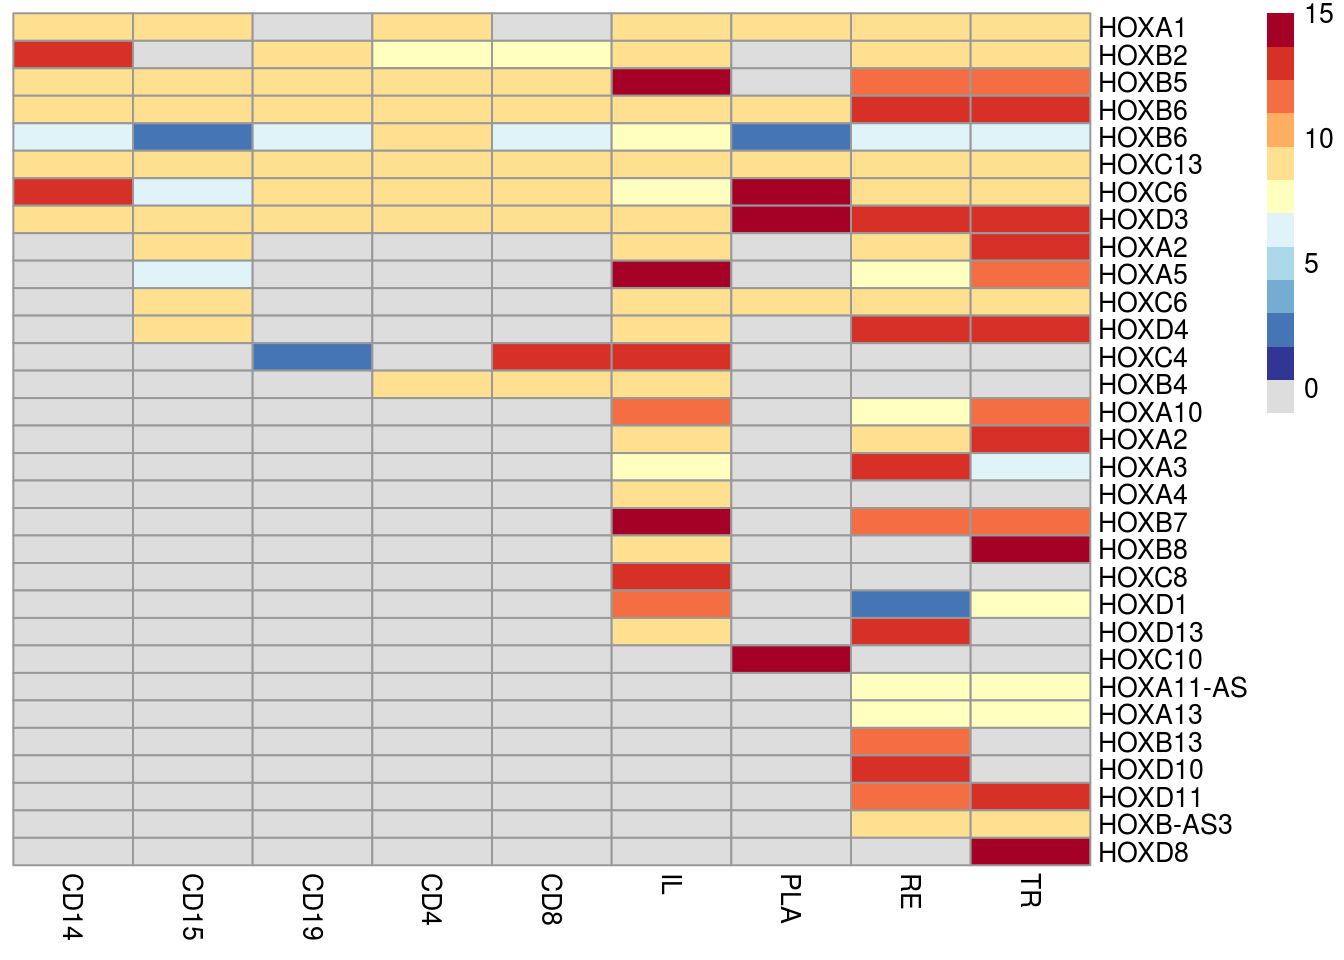
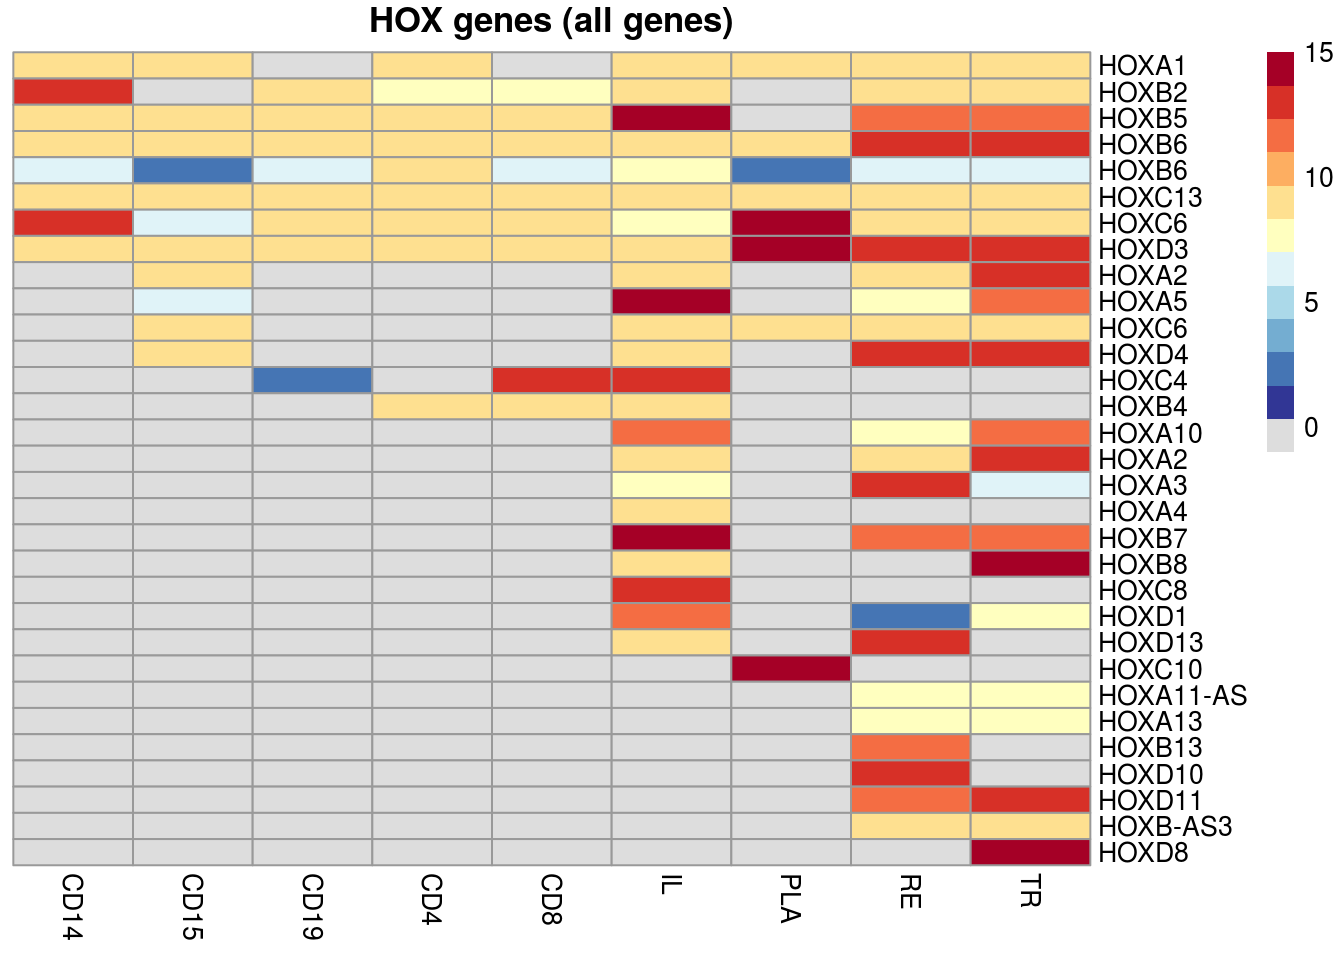
Removed granular heatmaps, added more on HOX genes.

diff --git a/post/weeks-1-3/log-weeks-1-3/index.html b/post/weeks-1-3/log-weeks-1-3/index.html
@@ -405,6 +405,7 @@ library(RColorBrewer)</code></pre>
 <div id="data-handling" class="section level2">
 <h2>Data handling</h2>
 <p>MDI uses data that has common row names across all datasets. The data from <a href="http://139.165.108.18/srv/genmol/permanent/1be6993fe41c12a051c9244d67c91da2be49e5dd26a6cd79f442bc006971e2ef/crohn-index.html">the CEDAR cohort</a> is in the form of [people <span class="math inline">\(\times\)</span> probes]. We want to transpose this; to accomplish this task we wrote <a href="https://github.com/stcolema/ra_chris_wallace/blob/master/matrix_transposer.R">an Rscript</a> that can be called form the terminal command line with appropriate arguments to transpose .csv files in a given directory. The <code>data.table</code> package by <span class="citation">Dowle and Srinivasan (2019)</span> was of great use in making this quick to run - for our 9 datasets of ~300 people and 8-16 thousand probes it took less than a minute to read, convert and write the files.</p>
+<p>The nine datasets present are six circulating immune cell types (CD4+ T lymphocytes, CD8+ T lymphocytes, CD19+ B lymphocytes, CD14+ monocytes, CD15+ granulocytes, platelets) as well as ileal, colonic, and rectal biopsies (IL, TR, RE datasets respectively).</p>
 <p>Another <a href="https://github.com/stcolema/ra_chris_wallace/blob/master/common_rownames_data.R">script was required to remove all the non-ubiquitous probe IDs</a>. Any probe not present in all datasets was removed to allow MDI to perform as MDI cannot handle missing data. This reduced the set of probes to 4,964.</p>
 <p>We performed MDI on these 9 reduced datasets with 10,000 iterations, a burn-in of 1,000 and a thinning rate of 25. MDI overfits the data, beginning with 50 clusters (as an approximation of a Dirichlet process - note that we can change the number of clusters present); as part of the sampling is reduced to around 10 occupied clusters per dataset (ranging from 8 - 13). We assumed that the median cluster allocation was the predicted cluster forgetting about the <strong>label-flipping</strong> problem of unsupervised methods.</p>
 <p>We constructed a dataframe of the median allocation per dataset for each probe. The probes are translated to the associated gene using the <a href="http://139.165.108.18/srv/genmol/permanent/1be6993fe41c12a051c9244d67c91da2be49e5dd26a6cd79f442bc006971e2ef/CEDAR_GE/Probes_good_reanno_31137_TSS.txt">key available online</a>. As some of the probes mapped to non-unique genes we use a matrix to hold our data (as this does not require unique row names in R). We read this in and visually inspect the head of the data.</p>
@@ -428,14 +429,45 @@ head(compare_df_mat)</code></pre>
 <p><strong>Note</strong>: As one inspects the following plots please recall that the labels are arbitrary and proximity of colouring has no significance (i.e. there is no reason to believe that orange in the heatplots has any association with red).</p>
 <p>Using this data we generated a heatmap of all the genes allocation across all datasets.</p>
 <p><img src="/post/weeks-1-3/2019-02-20-log-weeks-1-3_files/figure-html/mdi_1_heatmap-1.png" width="672" /></p>
-<p>Notice that we have clusters of datasets; CD4, CD8 and CD14, RE and IL and then CD15, CD19 and TR. Platelets are outside of any clusters of datasets.</p>
+<p>Notice that we have clusters of datasets; CD4, CD8 and CD14, RE and IL and then CD15, CD19 and TR. Platelets are outside of any clusters of datasets; PLA is also the thinnest dataset with only 8 thousand probes present in the full format.</p>
 <p>There are 13 clusters present here; to enable comparison we went for a wider colour palette. This is the reason for the garishness of this heatplot. A causal inspection suggests lower similarity than one might expect, particularly considering the selection of data. As we only include the genes that are sufficiently expressed in each cell type to register for measurement we would expect these to include the genes that are most similarly expressed across all tissues. We should consider the pssibility that this is an artifact of not considering label-flipping, but we investigate the clusters in finer detail first.</p>
-<div id="investigate-subsections" class="section level3">
-<h3>Investigate subsections</h3>
-<p>With the same allocation data and maintaining the ordering from the heatmap of the full dataset we inspect subsamples of the data.</p>
-<p><img src="/post/weeks-1-3/2019-02-20-log-weeks-1-3_files/figure-html/mdi_1_small_heatmaps-1.png" width="672" /><img src="/post/weeks-1-3/2019-02-20-log-weeks-1-3_files/figure-html/mdi_1_small_heatmaps-2.png" width="672" /><img src="/post/weeks-1-3/2019-02-20-log-weeks-1-3_files/figure-html/mdi_1_small_heatmaps-3.png" width="672" /><img src="/post/weeks-1-3/2019-02-20-log-weeks-1-3_files/figure-html/mdi_1_small_heatmaps-4.png" width="672" /><img src="/post/weeks-1-3/2019-02-20-log-weeks-1-3_files/figure-html/mdi_1_small_heatmaps-5.png" width="672" /></p>
-<p>With this increased granularity, we see that after the first 1,000 rows of this ordering that the similarity across tissues becomes greater. There is still large sections of dissimilarity, but the clustering more coherent than the first plot suggests. Notice also that the PLA dataset (platelets) is the greatest source of dissimilarity - this is also the thinnest dataset with only 8 thousand probes present in the full format.</p>
-</div>
+<!-- ### Investigate subsections -->
+<!-- With the same allocation data and maintaining the ordering from the heatmap of the full dataset we inspect subsamples of the data. -->
+<!-- ```{r mdi_1_small_heatmaps, echo = FALSE} -->
+<!-- row_order <- ph_full$tree_row[["order"]] -->
+<!-- df_ph_order <- compare_df_mat[row_order, ] -->
+<!-- pheatmap(df_ph_order[1:1000, ], -->
+<!--   cluster_rows = F, -->
+<!--   cluster_cols = F, -->
+<!--   color = col_pal, -->
+<!--   main = "Entries 1:1000" -->
+<!-- ) -->
+<!-- pheatmap(df_ph_order[1001:2000, ], -->
+<!--   cluster_rows = F, -->
+<!--   cluster_cols = F, -->
+<!--   color = col_pal, -->
+<!--   main = "Entries 1001:2000" -->
+<!-- ) -->
+<!-- pheatmap(df_ph_order[2001:3000, ], -->
+<!--   cluster_rows = F, -->
+<!--   cluster_cols = F, -->
+<!--   color = col_pal, -->
+<!--   main = "Entries 2001:3000" -->
+<!-- ) -->
+<!-- pheatmap(df_ph_order[3001:4000, ], -->
+<!--   cluster_rows = F, -->
+<!--   cluster_cols = F, -->
+<!--   color = col_pal, -->
+<!--   main = "Entries 3001:4000" -->
+<!-- ) -->
+<!-- pheatmap(df_ph_order[4001:4964, ], -->
+<!--   cluster_rows = F, -->
+<!--   cluster_cols = F, -->
+<!--   color = col_pal, -->
+<!--   main = "Entries 4001:4964" -->
+<!-- ) -->
+<!-- ``` -->
+<!-- With this increased granularity, we see that after the first 1,000 rows of this ordering that the similarity across tissues becomes greater. There is still large sections of dissimilarity, but the clustering more coherent than the first plot suggests. Notice also that the PLA dataset (platelets) is the greatest source of dissimilarity - this is also the thinnest dataset with only 8 thousand probes present in the full format. -->
 <div id="investigate-different-combinations" class="section level3">
 <h3>Investigate different combinations</h3>
 <p>Please note that these following heatmaps have <strong>unique</strong> clusterings and have not inherited the clustering of the original heatmap unlike those preceding this section.</p>
@@ -462,14 +494,55 @@ row.names(compare_df_all_mat) &lt;- compare_df_all$V1</code></pre>
 <p>We now create a heatmap of these genes.</p>
 <p><img src="/post/weeks-1-3/2019-02-20-log-weeks-1-3_files/figure-html/mdi_2_heatmap-1.png" width="672" /></p>
 <p>Notice the clustering of datasets; we have groupings of the intestinal sample cells (IL, RE and TR), of CD14, CD19, CD4 and CD8 and then CD15 and platelets on their own.</p>
-<p>The grey areas are absent genes for the dataset in question. This is too dense (being some 18,517 observations long), so we consider subsets.</p>
+<pre class="r"><code># Subset the similar datasets
+cd_subset &lt;- c(1, 3, 4, 5)
+intestine_subset &lt;- c(6, 8, 9)</code></pre>
+<p>The grey areas are absent genes for the dataset in question. This is too dense (being some 18,517 observations long) and with the dissmilarity of some features make it impossible to see patterns.</p>
+<div id="hox-gene-clusters" class="section level3">
+<h3>HOX gene clusters</h3>
+<p>We investigate the clustering of HOX genes; these are a family of associated genes. We expect to see them cluster together in each dataset.</p>
 <p><img src="/post/weeks-1-3/2019-02-20-log-weeks-1-3_files/figure-html/hox_pheatmap-1.png" width="672" /></p>
-<p>We see that for the HOX genes present in all datasets we have the majority in a common cluster across datasets, particularly in the blood cell types. There is slightly less homogeneity in the intestinal samples.</p>
-<p><img src="/post/weeks-1-3/2019-02-20-log-weeks-1-3_files/figure-html/mdi_2_granularity-1.png" width="672" /><img src="/post/weeks-1-3/2019-02-20-log-weeks-1-3_files/figure-html/mdi_2_granularity-2.png" width="672" /><img src="/post/weeks-1-3/2019-02-20-log-weeks-1-3_files/figure-html/mdi_2_granularity-3.png" width="672" /><img src="/post/weeks-1-3/2019-02-20-log-weeks-1-3_files/figure-html/mdi_2_granularity-4.png" width="672" /><img src="/post/weeks-1-3/2019-02-20-log-weeks-1-3_files/figure-html/mdi_2_granularity-5.png" width="672" /></p>
+<p>We see that for the HOX genes present in all datasets we have the majority in a common cluster across datasets, particularly in the blood cell types. There is slightly less homogeneity in the intestinal samples. We check to see if the clustering is more unanimous in the subsets of similar datasets.</p>
+<p><img src="/post/weeks-1-3/2019-02-20-log-weeks-1-3_files/figure-html/hox_genes_specific_data_sets_all_genes-1.png" width="672" /><img src="/post/weeks-1-3/2019-02-20-log-weeks-1-3_files/figure-html/hox_genes_specific_data_sets_all_genes-2.png" width="672" /></p>
+<!-- ```{r mdi_2_granularity, echo = FALSE} -->
+<!-- pheatmap(df_ph_order[1:2500, ], -->
+<!--   cluster_rows = F, -->
+<!--   cluster_cols = F, -->
+<!--   color = col_pal, -->
+<!--   main = "Heatmap for genes 1:2500" -->
+<!-- ) -->
+<!-- pheatmap(df_ph_order[2501:5000, ], -->
+<!--   cluster_rows = F, -->
+<!--   cluster_cols = F, -->
+<!--   color = col_pal, -->
+<!--   main = "Heatmap for genes 2501:5000" -->
+<!-- ) -->
+<!-- # There's very little information here -->
+<!-- pheatmap(df_ph_order[5001:10000, ], -->
+<!--   cluster_rows = F, -->
+<!--   cluster_cols = F, -->
+<!--   color = col_pal, -->
+<!--   main = "Heatmap for genes 5001:10000" -->
+<!-- ) -->
+<!-- pheatmap(df_ph_order[10001:15000, ], -->
+<!--   cluster_rows = F, -->
+<!--   cluster_cols = F, -->
+<!--   color = col_pal, -->
+<!--   main = "Heatmap for genes 10001:15000" -->
+<!-- ) -->
+<!-- # Here it quite similar -->
+<!-- pheatmap(df_ph_order[15001:18517, ], -->
+<!--   cluster_rows = F, -->
+<!--   cluster_cols = F, -->
+<!--   color = col_pal, -->
+<!--   main = "Heatmap for genes 15001:18517" -->
+<!-- ) -->
+<!-- ``` -->
 <p>Recalling the clustering of datasets from the initial heatmap, we investigate these groupings. We inspect different combinations trying the CD combinations and the intestinal combinations.</p>
 <p><img src="/post/weeks-1-3/2019-02-20-log-weeks-1-3_files/figure-html/pheatmap_combinations_mdi_2-1.png" width="672" /><img src="/post/weeks-1-3/2019-02-20-log-weeks-1-3_files/figure-html/pheatmap_combinations_mdi_2-2.png" width="672" /></p>
 <p>To show that platelets and CD15 do not sit natually in any clustering of datasets we include the following heatmaps. The sparseness of the platelets dataset causes confusion and CD15 does not sit naturally in either clustering.</p>
 <p><img src="/post/weeks-1-3/2019-02-20-log-weeks-1-3_files/figure-html/pheatmap_combinations_mdi_2_pla_cd15-1.png" width="672" /><img src="/post/weeks-1-3/2019-02-20-log-weeks-1-3_files/figure-html/pheatmap_combinations_mdi_2_pla_cd15-2.png" width="672" /></p>
+</div>
 </div>
 <div id="references" class="section level1 unnumbered">
 <h1>References</h1>
